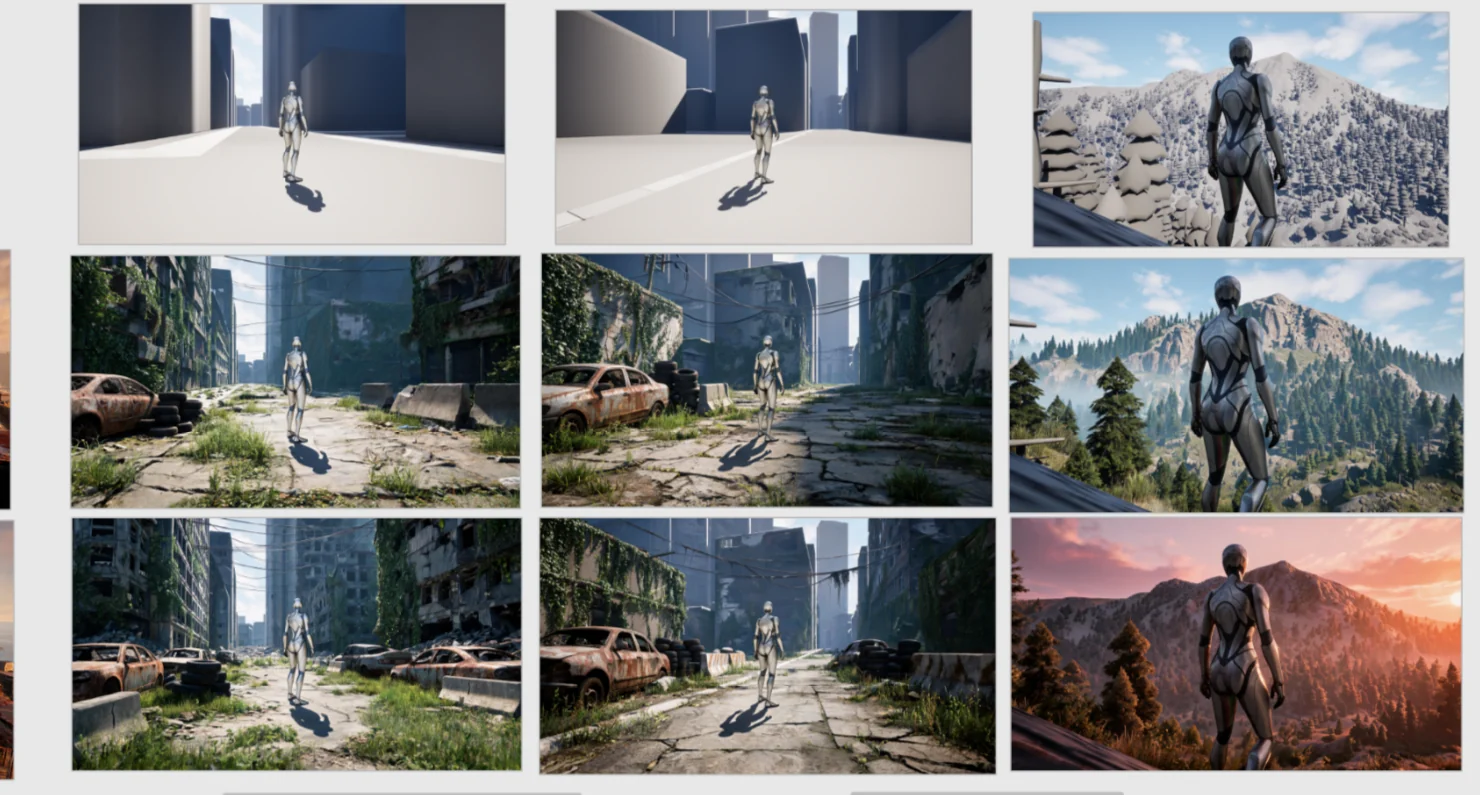
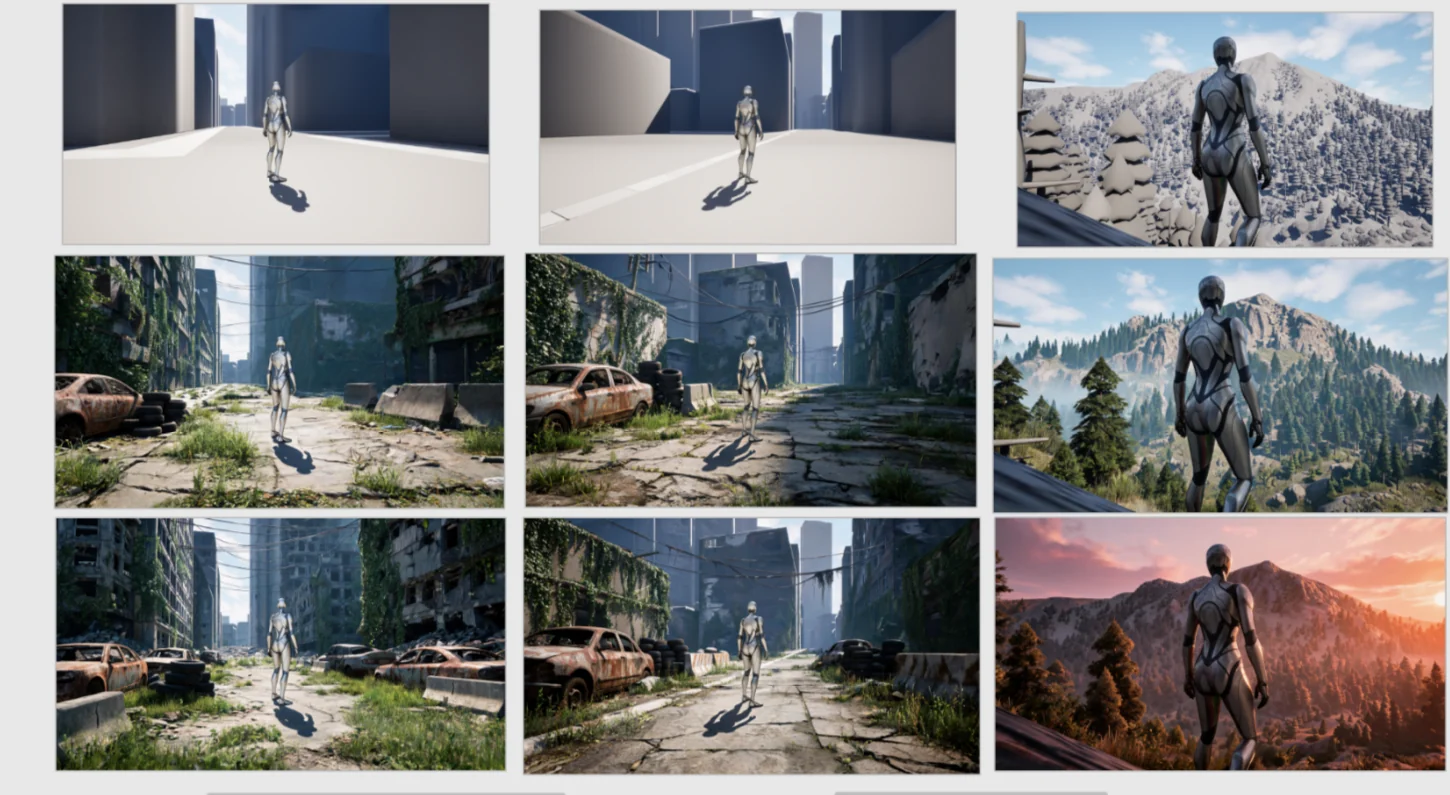
第 5 页大图左右缘按空白带精确裁剪,去残留

diff --git a/worksummary/index.html b/worksummary/index.html
@@ -364,7 +364,7 @@ const SLIDES = [
     <p class="kick">01 · AI PCG 编辑器</p>
     <h2 style="font-size:58px">BatchPCG — 从白盒到 POI 成图</h2>
     <div style="display:grid;grid-template-columns:790px 1fr;gap:48px;margin-block:auto;align-items:center">
-      <img class="fig" style="aspect-ratio:1480/795;margin:0;object-fit:contain" src="assets/img/batch-poi.webp" alt="report 批量生图:白盒特定角度 → 多种风格效果参考,供策划与美术预览未来关卡(点击放大)">
+      <img class="fig" style="aspect-ratio:1450/795;margin:0;object-fit:contain" src="assets/img/batch-poi.webp" alt="report 批量生图:白盒特定角度 → 多种风格效果参考,供策划与美术预览未来关卡(点击放大)">
       <div>
         <p class="lead" style="font-size:21px;margin-bottom:18px">批产出来的场景只有地形和白盒体块——这一步补上植被、道路与河流,再从白盒直接出效果参考。</p>
         <p style="font-size:18.5px;line-height:1.7;color:#c9c0ae;border-top:1px solid var(--line);padding-top:14px"><b style="color:var(--accent);font-weight:600">补 POI。</b>在白盒与地形之上生成植被、道路与河流——场景从纯体块变成有生态与动线的关卡雏形。</p>
